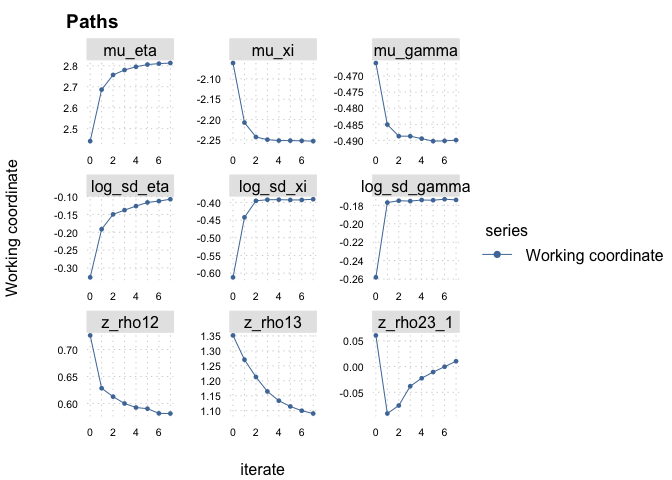
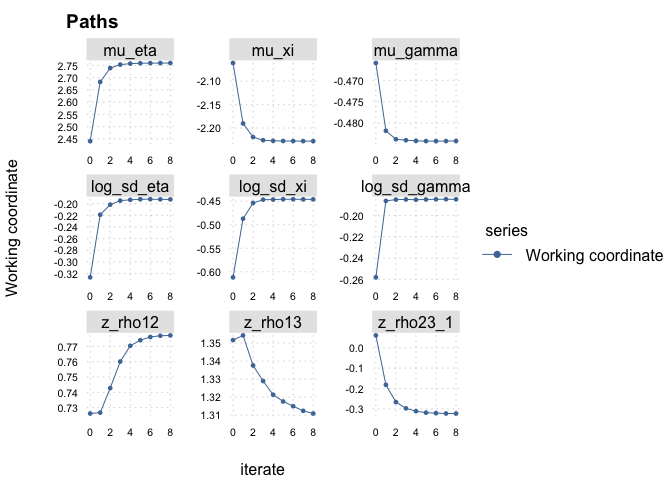
update default and vcov arg level

diff --git a/README.md b/README.md
@@ -100,9 +100,9 @@ tlmm <- fit_meta_model(d_cc, MODEL = "trivariate", ESTIMATOR = "lmm")
 tglmm <- fit_meta_model(d, MODEL = "trivariate", ESTIMATOR = "glmm")
 ib <- fit_meta_model(d_cc, MODEL = "trivariate", ESTIMATOR = "ib")
 ib
-#> <accmeta_ib> 6 iterations, stopped on converged 
+#> <accmeta_ib> 13 iterations, stopped on converged 
 #>    SE    SP  PREV 
-#> 0.940 0.906 0.372
+#> 0.941 0.904 0.380
 ```
 
 `coef()` extract estimated parameters:
@@ -130,14 +130,14 @@ coef(tglmm)
 #> gamma 0.5883872 0.1849338 0.6532612
 coef(ib)
 #> $MU
-#>        eta         xi      gamma 
-#>  2.7468931 -2.2684758 -0.5218094 
+#>       eta        xi     gamma 
+#>  2.767491 -2.238352 -0.489474 
 #> 
 #> $SIGMA
 #>             eta        xi     gamma
-#> eta   0.7831908 0.3876533 0.6321118
-#> xi    0.3876533 0.4738952 0.2669153
-#> gamma 0.6321118 0.2669153 0.6963463
+#> eta   0.7216418 0.3422498 0.6110238
+#> xi    0.3422498 0.4498147 0.2468259
+#> gamma 0.6110238 0.2468259 0.7043490
 ```
 
 All models are estimated, by default, with the recommended Wishart
@@ -169,16 +169,17 @@ min(eigen(coef(tglmm)$SIGMA)$values)
 
 ## Inference for the IB estimate
 
-With `VCOV = TRUE` in `set_control()`, the IB also computes the Jacobian
-at the estimate. `NCORES` spreads both the simulated fits of each
-iteration and the Jacobian draws for parallel computations
+With `VCOV = TRUE` in `fit_meta_model()`, the IB also computes the
+Jacobian at the estimate. `NCORES` spreads both the simulated fits of
+each iteration and the Jacobian draws for parallel computations
 
 ``` r
 ib <- fit_meta_model(
   d_cc,
   MODEL = "trivariate",
   ESTIMATOR = "ib",
-  CONTROL = set_control("ib", VCOV = TRUE, NCORES = 4)
+  CONTROL = set_control("ib", NCORES = 4),
+  VCOV = TRUE
 )
 ```
 
@@ -190,31 +191,31 @@ the Fisher-z partial correlations.
 ``` r
 sqrt(diag(vcov(ib)))
 #>       mu_eta        mu_xi     mu_gamma   log_sd_eta    log_sd_xi log_sd_gamma 
-#>    0.3381176    0.2292925    0.2358696    0.3724484    0.3237534    0.2228914 
+#>    0.2994012    0.2132412    0.2230208    0.3766134    0.3377043    0.2262472 
 #>      z_rho12      z_rho13    z_rho23_1 
-#>    0.5308770    0.6614506    0.6545069
+#>    0.6588853    0.8761187    1.3124542
 confint(ib)
 #>                   2.5 %      97.5 %
-#> mu_eta        2.1503178  3.47571441
-#> mu_xi        -2.7023472 -1.80353726
-#> mu_gamma     -0.9522175 -0.02762567
-#> log_sd_eta   -0.8372098  0.62276103
-#> log_sd_xi    -1.0252907  0.24379937
-#> log_sd_gamma -0.6109355  0.26278256
-#> z_rho12      -0.4591485  1.62185118
-#> z_rho13      -0.2059883  2.38685055
-#> z_rho23_1    -1.2725161  1.29310374
+#> mu_eta        2.1730228  3.34665373
+#> mu_xi        -2.6459458 -1.81005582
+#> mu_gamma     -0.9212576 -0.04703203
+#> log_sd_eta   -0.9307114  0.54558600
+#> log_sd_xi    -1.1080275  0.21574899
+#> log_sd_gamma -0.6282998  0.25857287
+#> z_rho12      -0.5142852  2.06849763
+#> z_rho13      -0.4062657  3.02805648
+#> z_rho23_1    -2.8952539  2.24947219
 confint(ib, METHOD = "basic")
 #>                    2.5 %      97.5 %
-#> mu_eta        2.14263456  3.43408168
-#> mu_xi        -2.68121329 -1.80020901
-#> mu_gamma     -0.95044351 -0.02483661
-#> log_sd_eta   -0.76825169  0.67019770
-#> log_sd_xi    -0.94234534  0.36908646
-#> log_sd_gamma -0.55954167  0.31354289
-#> z_rho12      -0.38134802  1.65300997
-#> z_rho13      -0.09957652  2.34876801
-#> z_rho23_1    -1.33055518  1.07253382
+#> mu_eta        2.13725205  3.33763536
+#> mu_xi        -2.63693755 -1.80229542
+#> mu_gamma     -0.90446121 -0.06464601
+#> log_sd_eta   -0.88209132  0.59439153
+#> log_sd_xi    -1.04223906  0.29682027
+#> log_sd_gamma -0.57384036  0.31165395
+#> z_rho12      -0.36359406  2.16328989
+#> z_rho13      -0.09497695  3.11619209
+#> z_rho23_1    -3.26635299  1.60501379
 ```
 
 Intervals mapped onto the natural scale via
@@ -222,15 +223,15 @@ Intervals mapped onto the natural scale via
 ``` r
 confint(ib, SCALE = "natural")
 #>                    2.5 %      97.5 %
-#> mu_eta         2.1503178  3.47571441
-#> mu_xi         -2.7023472 -1.80353726
-#> mu_gamma      -0.9522175 -0.02762567
-#> sd_eta         0.4329168  1.86406769
-#> sd_xi          0.3586922  1.27608829
-#> sd_gamma       0.5428428  1.30054390
-#> rho_eta_xi    -0.4293899  0.92489231
-#> rho_eta_gamma -0.2031235  0.98324347
-#> rho_xi_gamma  -0.3163638  0.84242165
+#> mu_eta         2.1730228  3.34665373
+#> mu_xi         -2.6459458 -1.81005582
+#> mu_gamma      -0.9212576 -0.04703203
+#> sd_eta         0.3942731  1.72561930
+#> sd_xi          0.3302097  1.24079089
+#> sd_gamma       0.5334981  1.29508053
+#> rho_eta_xi    -0.4732773  0.96856058
+#> rho_eta_gamma -0.3852974  0.99532397
+#> rho_xi_gamma  -0.3247663  0.85932161
 ```
 
 Intervals mapped onto the reporting scale via
@@ -238,15 +239,15 @@ Intervals mapped onto the reporting scale via
 ``` r
 confint(ib, SCALE = "reporting")
 #>                    2.5 %    97.5 %
-#> sensitivity    0.8956985 0.9699888
-#> specificity    0.8585790 0.9371650
-#> prevalence     0.2784391 0.4930940
-#> sd_eta         0.4329168 1.8640677
-#> sd_xi          0.3586922 1.2760883
-#> sd_gamma       0.5428428 1.3005439
-#> rho_eta_xi    -0.4293899 0.9248923
-#> rho_eta_gamma -0.2031235 0.9832435
-#> rho_xi_gamma  -0.3163638 0.8424216
+#> sensitivity    0.8978007 0.9659951
+#> specificity    0.8593686 0.9337607
+#> prevalence     0.2847017 0.4882442
+#> sd_eta         0.3942731 1.7256193
+#> sd_xi          0.3302097 1.2407909
+#> sd_gamma       0.5334981 1.2950805
+#> rho_eta_xi    -0.4732773 0.9685606
+#> rho_eta_gamma -0.3852974 0.9953240
+#> rho_xi_gamma  -0.3247663 0.8593216
 ```
 
 Visual diagnostics
